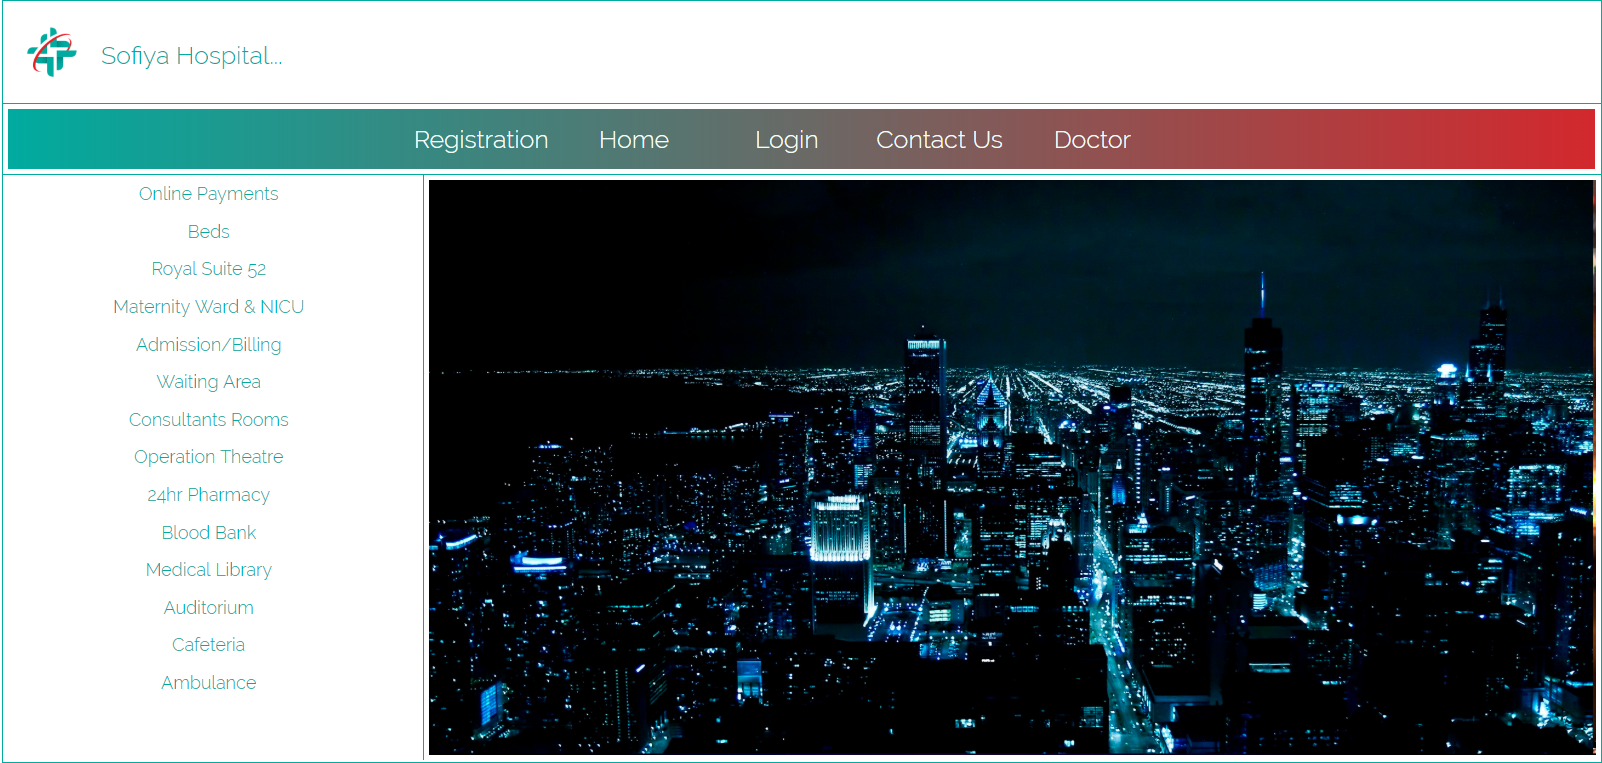
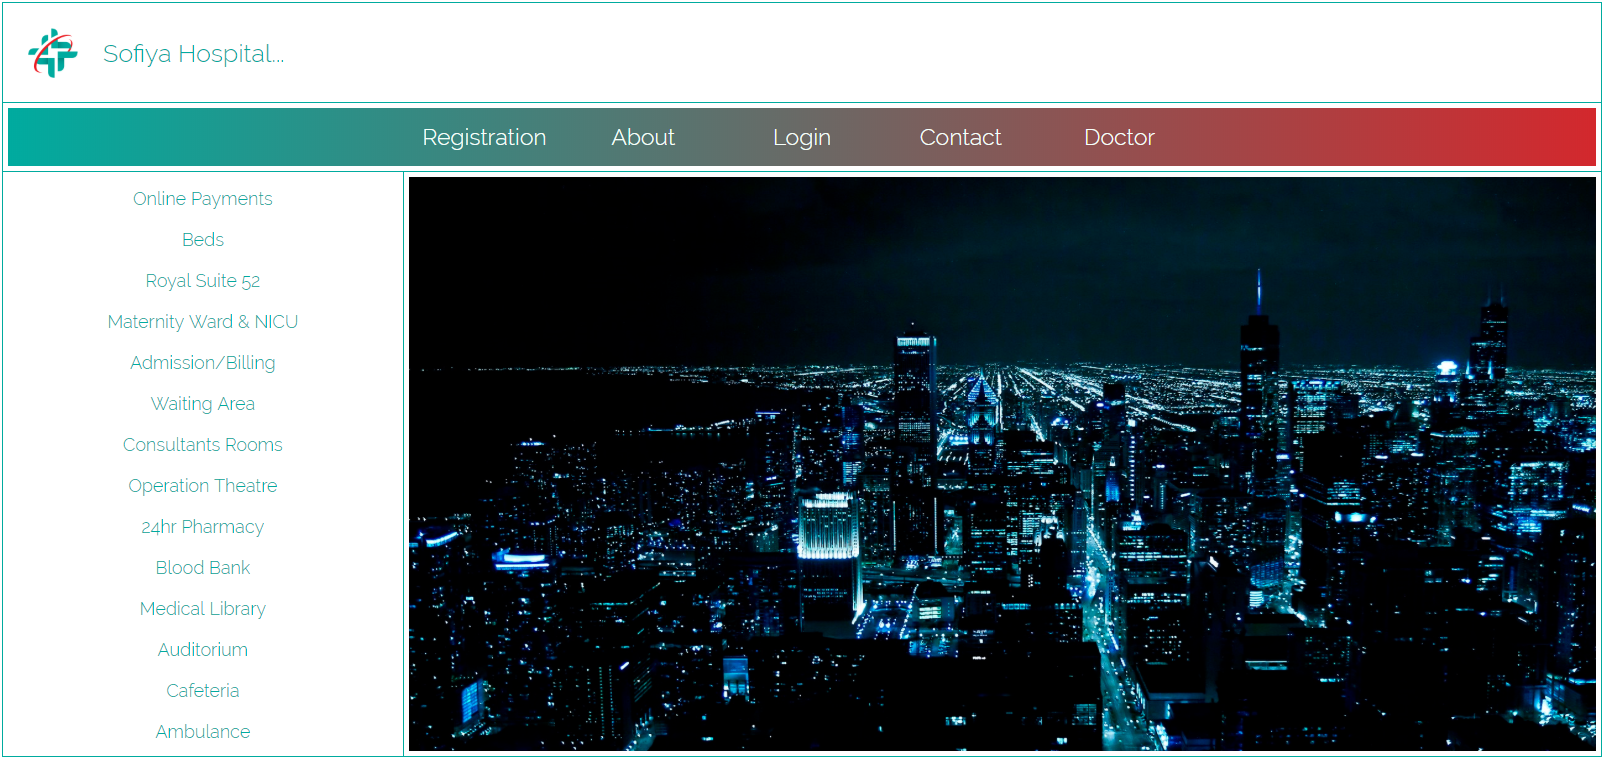
Add box-sizing property.

diff --git a/Pages/Main Page.html b/Pages/Main Page.html
@@ -7,39 +7,41 @@
 </head>
 
 <body>
-  <div class="main" style="padding:0px;">
+  <div class="main" style="padding:0%;min-height:200px;">
 
+    <a href="Main Page.html">
     <div class="header">
       <img class="headerimg" src="..\Images\logo.jpg">
       <div class="headername">Sofiya Hospital...</div>
     </div>
+  </a>
 
     <div class="menu">
       <div class="menuinner">
-        <a class="menuhref" href="Registration Form.html">Registration</a>
-        <a class="menuhref" href="Home.html">Home</a>
-        <a class="menuhref" href="Login.html">Login</a>
-        <a class="menuhref" href="Contact Us.html">Contact</a>
-        <a class="menuhref" href="Doctor.html">Doctor</a>
+        <a class="menuhref" href="Registration Form.html" target="_blank">Registration</a>
+        <a class="menuhref" href="About.html" target="_blank">About</a>
+        <a class="menuhref" href="Login.html" target="_blank">Login</a>
+        <a class="menuhref" href="Contact Us.html" target="_blank">Contact</a>
+        <a class="menuhref" href="Doctor.html" target="_blank">Doctor</a>
       </div>
     </div>
 
     <div class="content">
       <div class="sidebar">
-        <a class="sidehref" href="Payment.html">Online Payments</a>
-        <a class="sidehref" href="Beds.html">Beds</a>
-        <a class="sidehref" href="Royal Suite 52.html">Royal Suite 52</a>
-        <a class="sidehref" href="Maternity Ward & NICU.html">Maternity Ward & NICU</a>
-        <a class="sidehref" href="Admission.html">Admission/Billing</a>
-        <a class="sidehref" href="Waiting Area.html">Waiting Area</a>
-        <a class="sidehref" href="Consultants Rooms.html">Consultants Rooms</a>
-        <a class="sidehref" href="Operation Theatre.html">Operation Theatre</a>
-        <a class="sidehref" href="Pharmacy.html">24hr Pharmacy</a>
-        <a class="sidehref" href="Blood Bank.html">Blood Bank</a>
-        <a class="sidehref" href="Medical Library.html">Medical Library</a>
-        <a class="sidehref" href="Auditorium.html">Auditorium</a>
-        <a class="sidehref" href="Cafeteria.html">Cafeteria</a>
-        <a class="sidehref" href="Ambulance.html">Ambulance</a>
+        <a class="sidehref" href="Payment.html" target="_blank">Online Payments</a>
+        <a class="sidehref" href="Beds.html" target="_blank">Beds</a>
+        <a class="sidehref" href="Royal Suite 52.html" target="_blank">Royal Suite 52</a>
+        <a class="sidehref" href="Maternity Ward & NICU.html" target="_blank">Maternity Ward & NICU</a>
+        <a class="sidehref" href="Admission.html" target="_blank">Admission/Billing</a>
+        <a class="sidehref" href="Waiting Area.html" target="_blank">Waiting Area</a>
+        <a class="sidehref" href="Consultants Rooms.html" target="_blank">Consultants Rooms</a>
+        <a class="sidehref" href="Operation Theatre.html" target="_blank">Operation Theatre</a>
+        <a class="sidehref" href="Pharmacy.html" target="_blank">24hr Pharmacy</a>
+        <a class="sidehref" href="Blood Bank.html" target="_blank">Blood Bank</a>
+        <a class="sidehref" href="Medical Library.html" target="_blank">Medical Library</a>
+        <a class="sidehref" href="Auditorium.html" target="_blank">Auditorium</a>
+        <a class="sidehref" href="Cafeteria.html" target="_blank">Cafeteria</a>
+        <a class="sidehref" href="Ambulance.html" target="_blank">Ambulance</a>
       </div>
       <div class="hospitalimg">
         <div class="image"></div>

diff --git a/Pages/Main Page.css b/Pages/Main Page.css
@@ -1,19 +1,27 @@
+html{
+  box-sizing: border-box;
+}
+
+* , *::after , *::before{
+    box-sizing:inherit;
+}
+
 @font-face {
     font-family:myfont;
     src:url(../Font/raleway/Raleway-Light.ttf);
 }
 
 body{
-    margin:2px;
-    font-family:myfont;
+  margin:2px;
+  font-family:myfont;
 }
 
 .main{
    float:left;
    width:100%;
-   min-height:739px;
+   min-height:755px;
    border:1px #00AB9F solid;
-   padding-bottom:20px;
+   padding-bottom: 20px;
 }
 
 .header{
@@ -37,7 +45,7 @@ body{
 }
 
 .menu{
-    height:40px;
+    height:58px;
     margin:5px;
     padding:10px 0px 10px 0px;
     font-size:23px;
@@ -62,7 +70,7 @@ body{
 .content{
     float:left;
     width:100%;
-    height:77%;
+    height:77.6%;
     border-top:1px #00AB9F solid;
     display:flex;
 }
@@ -85,11 +93,11 @@ body{
 }
 
 .hospitalimg{
-    width:73%;
-    height: 98.2%;
-    float:right;
-    padding:5px;
-    border-left:1px solid #00AB9F;
+  width: 75%;
+  height: 100%;
+  float: right;
+  padding: 5px;
+  border-left: 1px solid #00AB9F;
 }
 
 .image{
@@ -143,7 +151,7 @@ body{
   }
 
   .menu{
-      height:25px;
+      height:26px;
       margin:0px;
       padding:0px;
       font-size:13px;
@@ -160,7 +168,7 @@ body{
 
   .sidebar{
       width:100%;
-      height:30%;
+      height:32%;
   }
 
   .sidehref{
@@ -172,7 +180,7 @@ body{
 
   .hospitalimg{
       width:100%;
-      height:60%;
+      height:68%;
       padding:0px;
       float:left;
       border:none;
@@ -199,7 +207,7 @@ body{
   }
 
   .menu{
-      height:35px;
+      height:44px;
       margin:2px;
       padding:5px 0px 5px 0px;
       font-size:20px;
@@ -210,13 +218,13 @@ body{
   }
 
   .content{
-      height:77%;
+      height:100%;
       display:block;
   }
 
   .sidebar{
       width:100%;
-      height:45%;
+      height:36%;
   }
 
   .sidehref{
@@ -227,7 +235,7 @@ body{
 
   .hospitalimg{
       width:100%;
-      height:65%;
+      height: 63.3%;
       padding:0px;
       float:left;
       border:none;
@@ -253,7 +261,7 @@ body{
   }
 
   .menu{
-    height: 45px;
+    height: 57px;
     margin: 4px;
     padding: 8px 0px 8px 0px;
     font-size: 25px;
@@ -264,7 +272,7 @@ body{
   }
 
   .content{
-      height:60%;
+      height:65%;
   }
 
   .sidebar{
@@ -280,7 +288,6 @@ body{
 
   .hospitalimg{
       width:70%;
-      height:98%;
       padding:5px;
       border:none;
   }

diff --git a/Pages/Css.css b/Pages/Css.css
@@ -90,6 +90,10 @@ ol , h2 , h3{
   margin:5px 0px 5px 0px;
 }
 
+h2{
+  color:#d3282d;
+}
+
 .commontable{
   width:100%;
   padding-bottom:50px;
@@ -155,7 +159,7 @@ ol , h2 , h3{
   float:left;
   width:99.5%;
   height:30%;
-  padding:1px;
+  padding:2px;
   color:#D3282D;
 }
 
@@ -167,7 +171,7 @@ ol , h2 , h3{
 
 .room3{
   width:33%;
-  height:23%;
+  height:30%;
 }
 
 .room img{
@@ -188,7 +192,10 @@ ol , h2 , h3{
 .display
 {
   width:100%;
+  margin-top: 5px;
   justify-content:center;
+  display: flex;
+  flex-flow: row wrap;
 }
 
 /*mobile*/
@@ -490,5 +497,5 @@ ol , h2 , h3{
     width:33%;
     height:23%;
   }
-  
+
 }

diff --git a/Pages/About.html b/Pages/About.html
@@ -2,7 +2,7 @@
 <html lang="en">
 
 <head>
-  <title>Home</title>
+  <title>About</title>
   <link rel="stylesheet" type="text/css" href="Css.css">
   <link rel="stylesheet" type="text/css" href="Main Page.css">
 </head>
